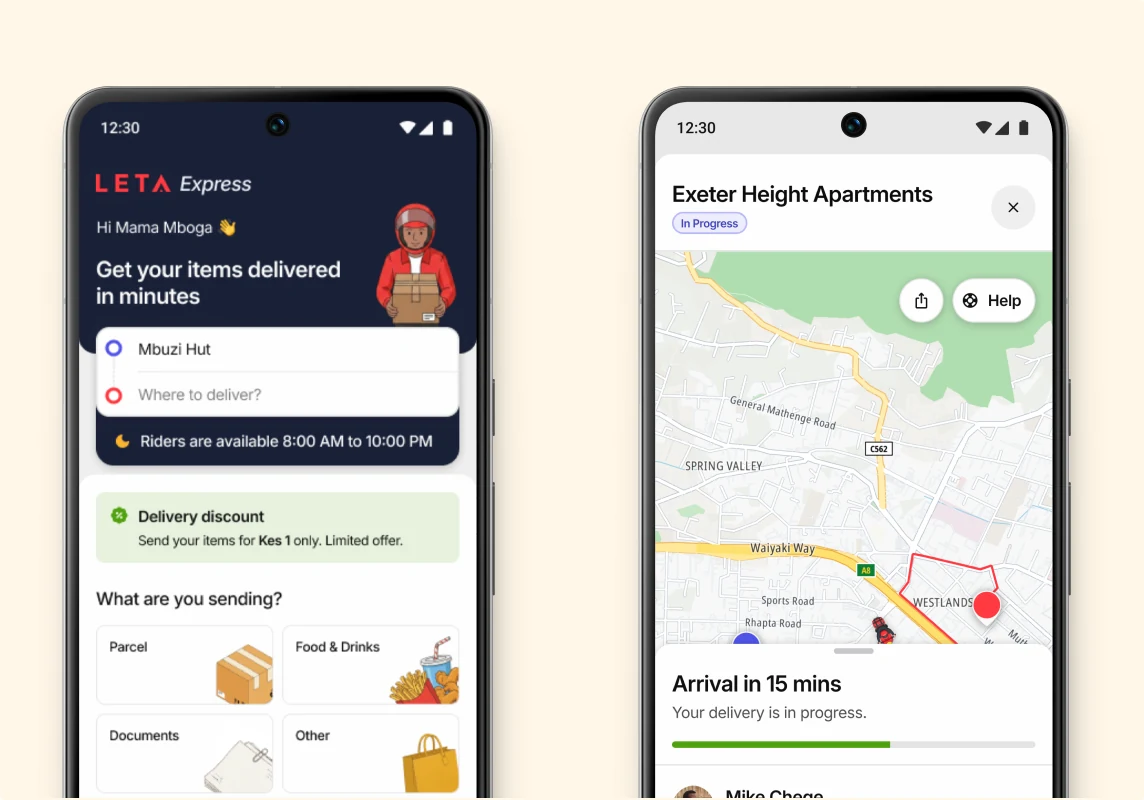
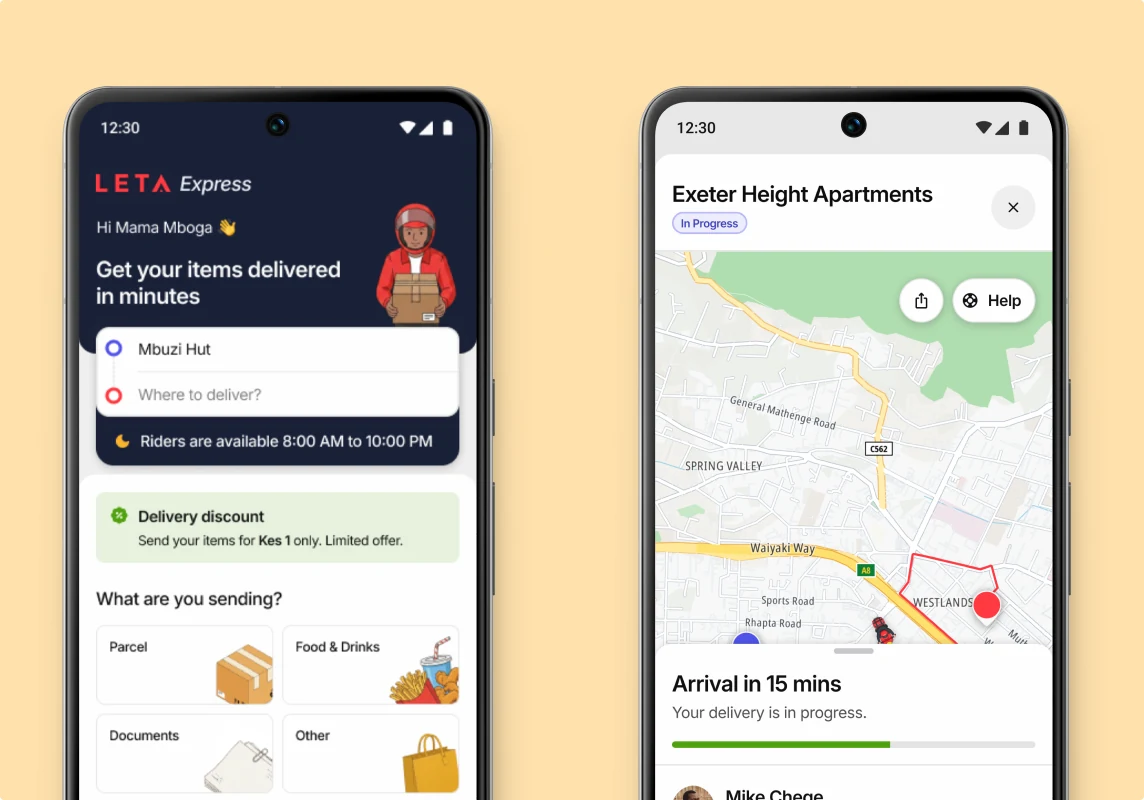
M-Pesa card and hero: Amber/150 frames with no stroke (Figma 4094:776, 4307:55907)
Image heroes drop the box outline, as image cards do.

diff --git a/src/styles/case-study.css b/src/styles/case-study.css
@@ -462,6 +462,12 @@
   object-fit: contain;
 }
 
+/* A hero image exported from Figma carries its own background (M-Pesa: Amber/150, no stroke in
+   Figma 4307:55907), so the box drops its outline, as the work card does. */
+.case-hero__media .study-media.study-media--hero.study-media--image {
+  border-color: transparent;
+}
+
 /* Phones: the hero box takes the card's shape, so a 1024x400 hero image is cropped to its middle
    (where the screens are), as the card shows it. */
 @media (max-width: 767px) {
